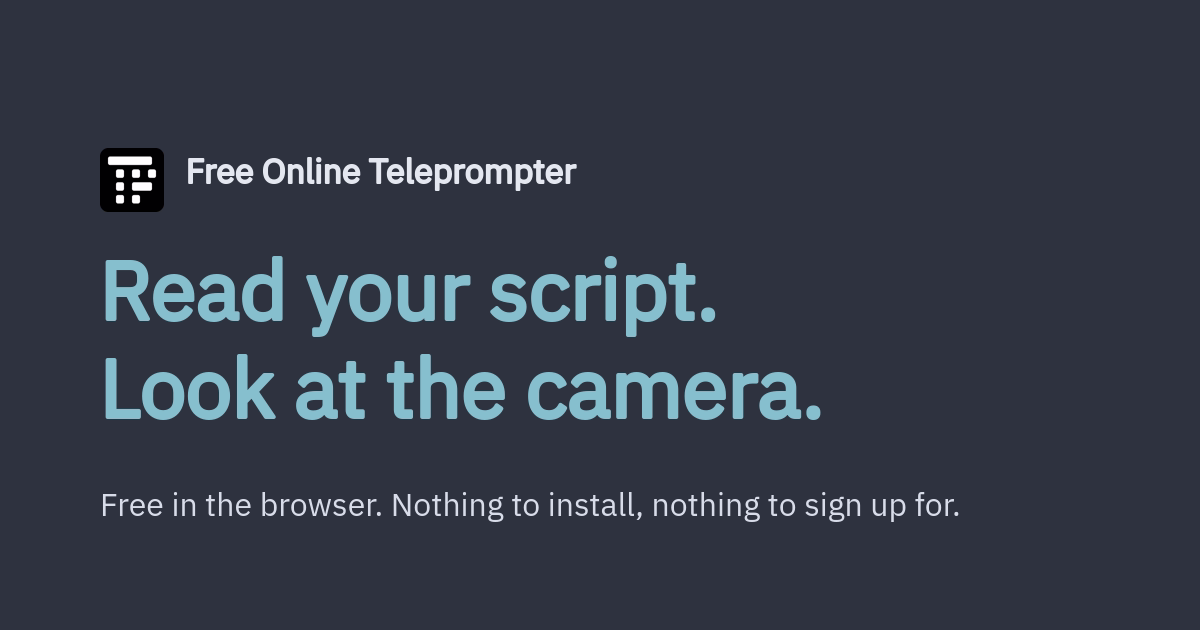
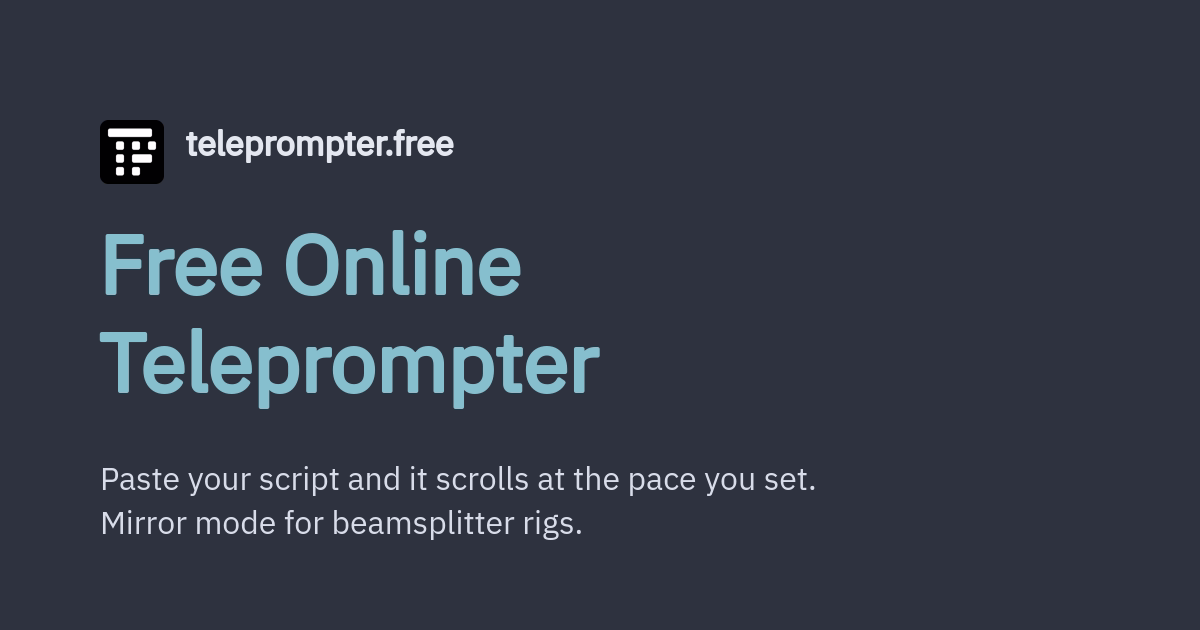
Plainer og:image
"Read your script. Look at the camera." was a slogan in two beats, under a
line built on "nothing to X, nothing to Y". Both read as copy written to
have a rhythm rather than to say something.

The name is the heading now and the line under it says what the thing does.
The alt text follows it.

Changed region(s): [[0.0617, 0.181, 0.7092, 0.6635], [0.0617, 0.7238, 0.8017, 0.8444]]

diff --git a/index.html b/index.html
@@ -27,7 +27,7 @@
     <meta property="og:image" content="https://teleprompter.free/og-image.png">
     <meta property="og:image:width" content="1200">
     <meta property="og:image:height" content="630">
-    <meta property="og:image:alt" content="Free Online Teleprompter: read your script, look at the camera.">
+    <meta property="og:image:alt" content="Free Online Teleprompter: paste your script and it scrolls at the pace you set.">
     <meta name="twitter:card" content="summary_large_image">
     <meta name="twitter:title" content="Free Online Teleprompter">
     <meta name="twitter:description" content="A free web-based teleprompter for videos, speeches and presentations. No sign-up, works offline.">

diff --git a/how-to-use-a-teleprompter/index.html b/how-to-use-a-teleprompter/index.html
@@ -24,7 +24,7 @@
     <meta property="og:image" content="https://teleprompter.free/og-image.png">
     <meta property="og:image:width" content="1200">
     <meta property="og:image:height" content="630">
-    <meta property="og:image:alt" content="Free Online Teleprompter: read your script, look at the camera.">
+    <meta property="og:image:alt" content="Free Online Teleprompter: paste your script and it scrolls at the pace you set.">
     <meta name="twitter:card" content="summary_large_image">
 
     <link rel="preload" href="/fonts/ibm-plex-sans-var.woff2" as="font" type="font/woff2" crossorigin>

diff --git a/mirror-teleprompter/index.html b/mirror-teleprompter/index.html
@@ -24,7 +24,7 @@
     <meta property="og:image" content="https://teleprompter.free/og-image.png">
     <meta property="og:image:width" content="1200">
     <meta property="og:image:height" content="630">
-    <meta property="og:image:alt" content="Free Online Teleprompter: read your script, look at the camera.">
+    <meta property="og:image:alt" content="Free Online Teleprompter: paste your script and it scrolls at the pace you set.">
     <meta name="twitter:card" content="summary_large_image">
 
     <link rel="preload" href="/fonts/ibm-plex-sans-var.woff2" as="font" type="font/woff2" crossorigin>

diff --git a/words-per-minute/index.html b/words-per-minute/index.html
@@ -24,7 +24,7 @@
     <meta property="og:image" content="https://teleprompter.free/og-image.png">
     <meta property="og:image:width" content="1200">
     <meta property="og:image:height" content="630">
-    <meta property="og:image:alt" content="Free Online Teleprompter: read your script, look at the camera.">
+    <meta property="og:image:alt" content="Free Online Teleprompter: paste your script and it scrolls at the pace you set.">
     <meta name="twitter:card" content="summary_large_image">
 
     <link rel="preload" href="/fonts/ibm-plex-sans-var.woff2" as="font" type="font/woff2" crossorigin>
